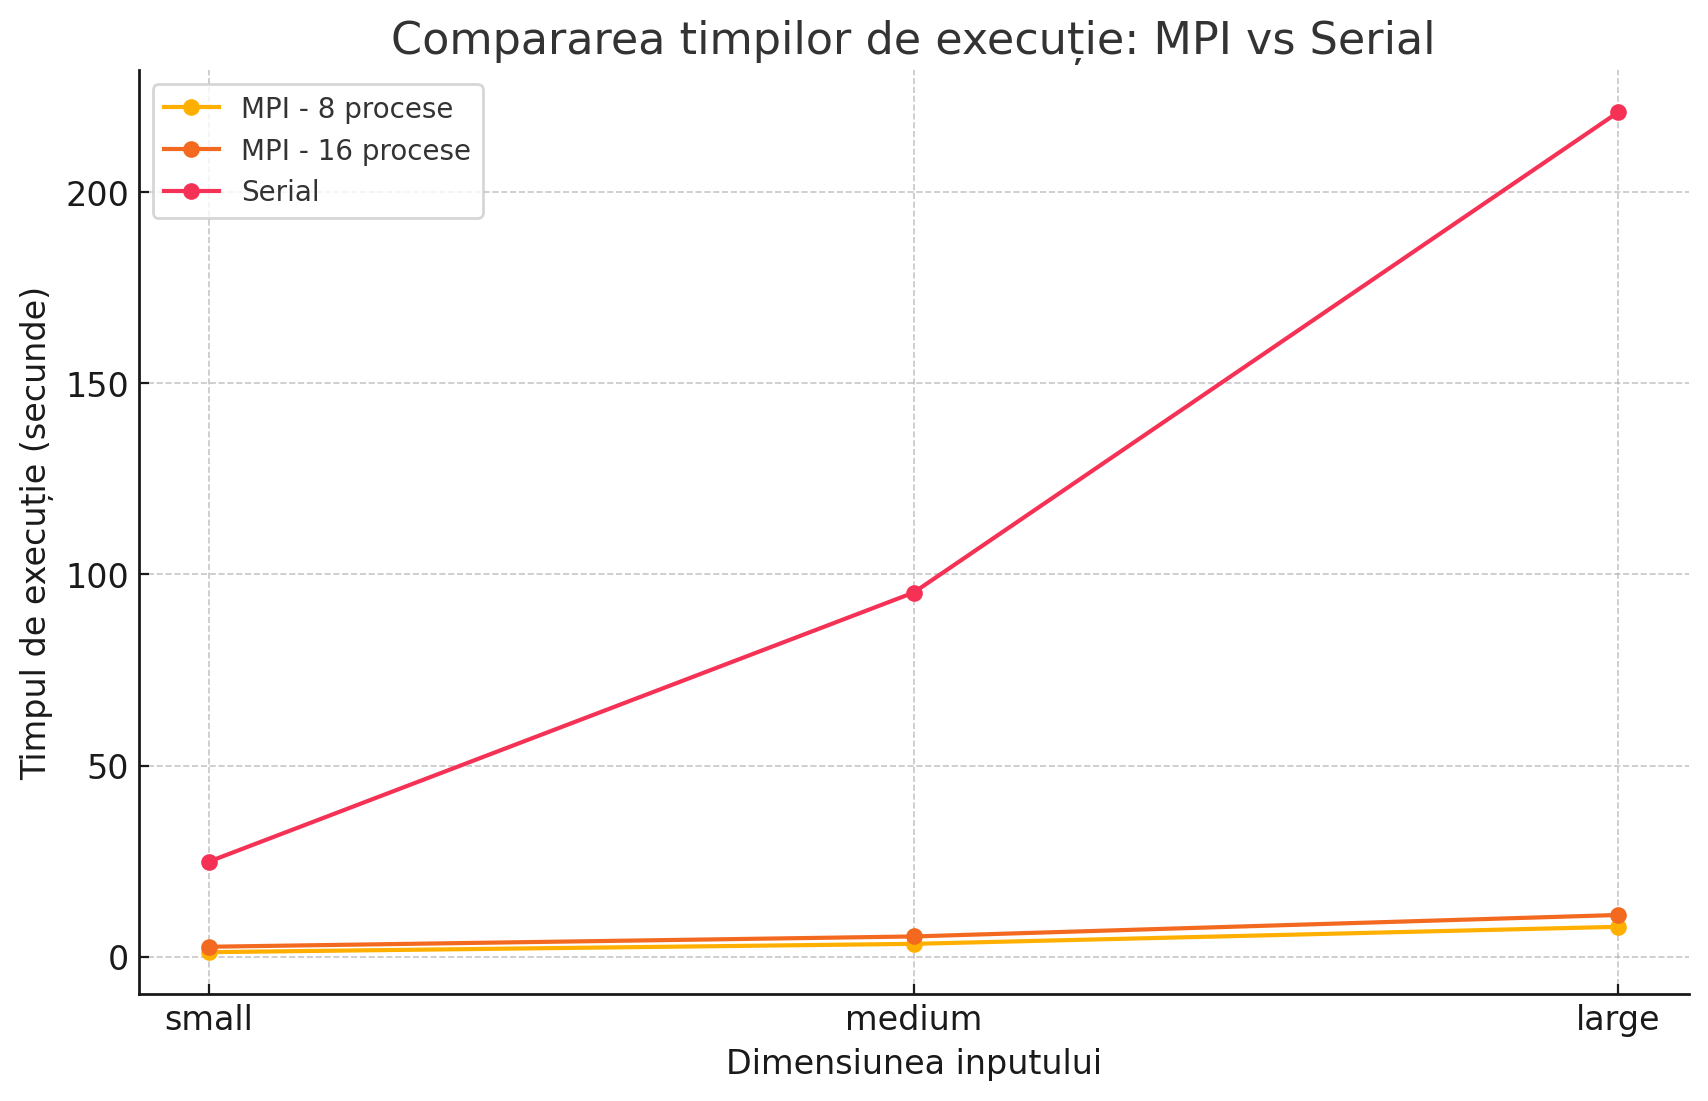
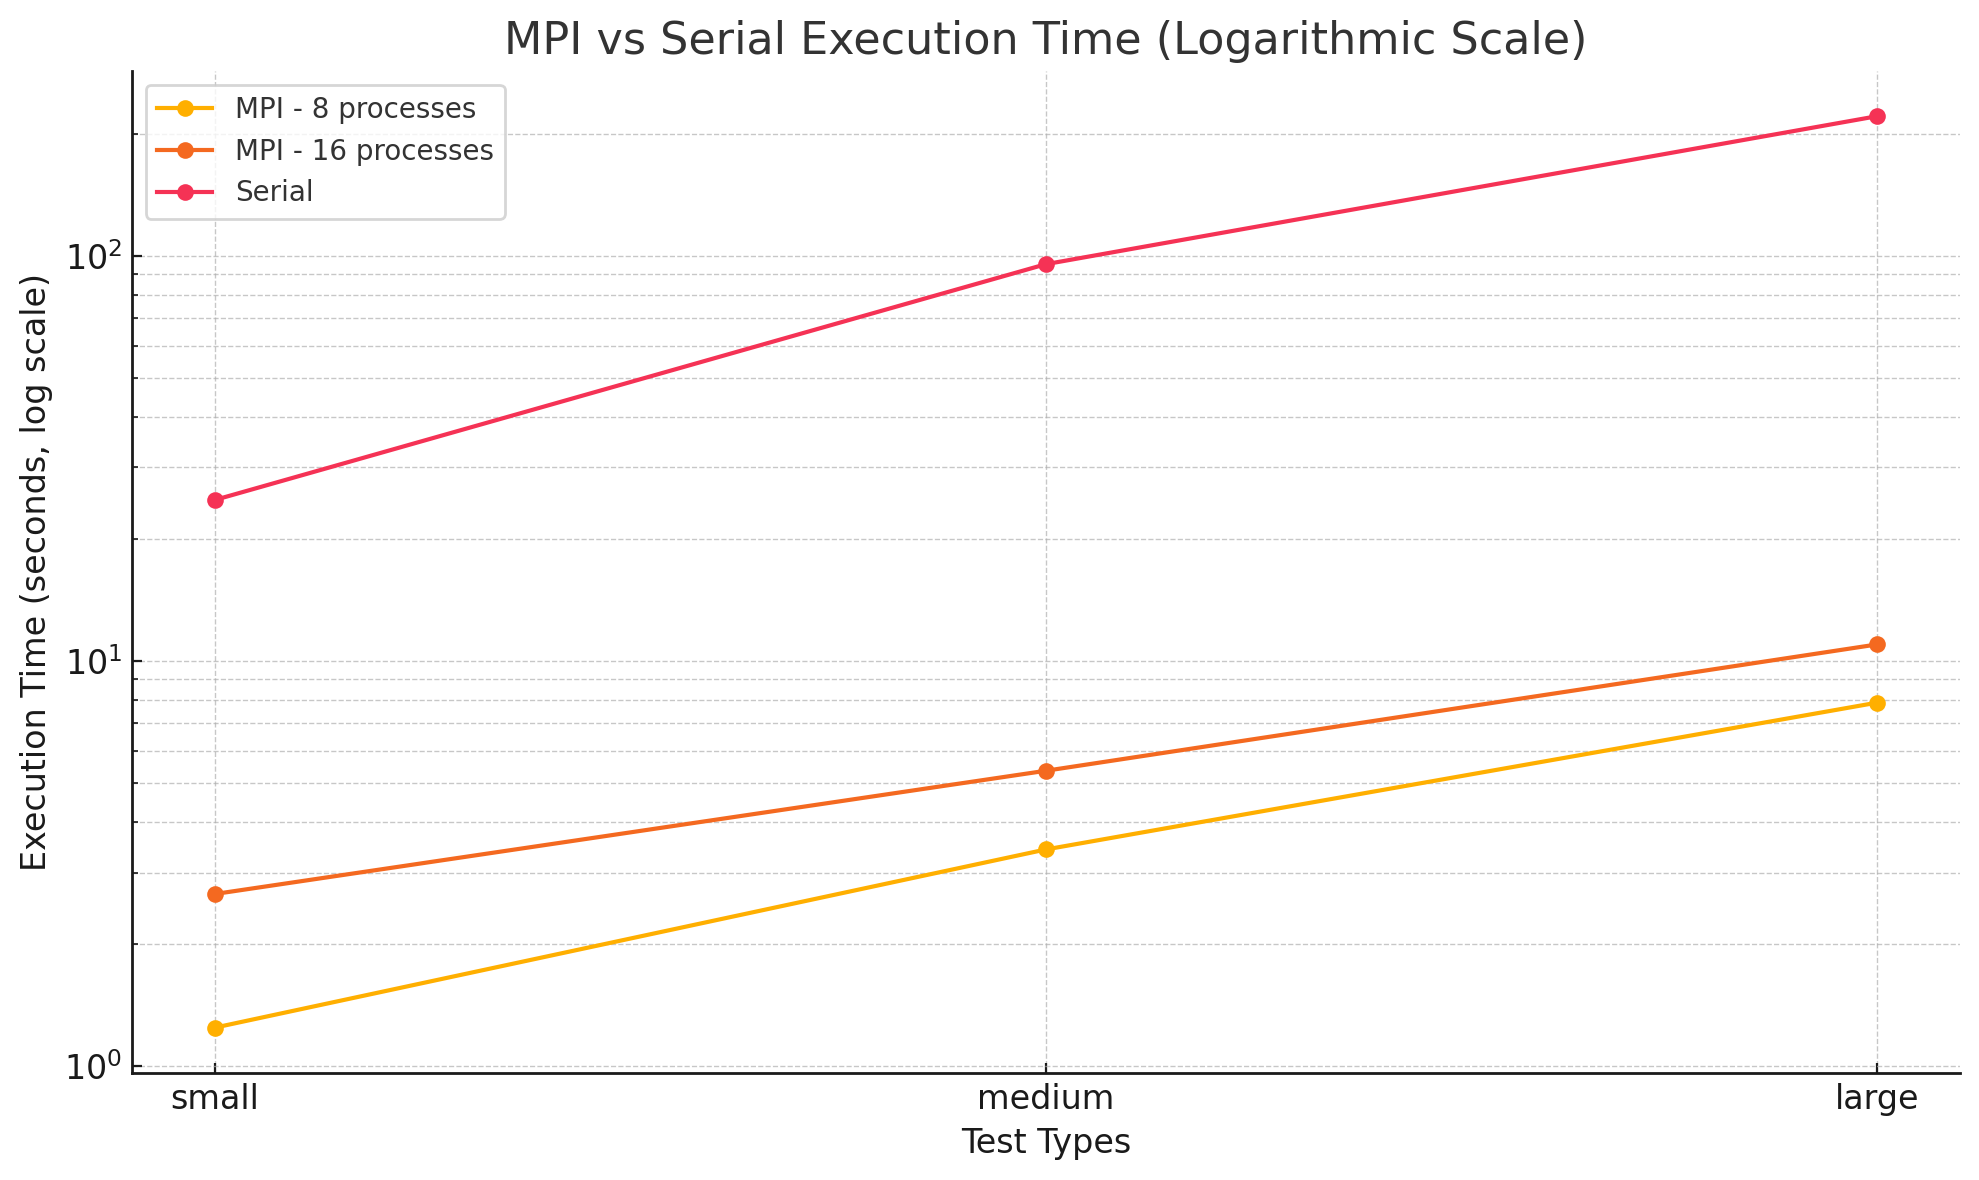
added log scale for mpi and pthreads graph

diff --git a/Readme.md b/Readme.md
@@ -121,7 +121,7 @@ We will use Pthreads to parallelize the matrix multiplication function. We will 
 
 ### Serial vs Pthreads time comparison
 
-<img src="Pthreads/images/serival_vs_phtreads.png" alt="PthreadsVsSerial" width="800" height="500"/>
+<img src="pthreads/images/serial_vs_pthreads.png" alt="PthreadsVsSerial" width="800" height="500"/>
 
 ### Pthreads number of threads comparison
 
